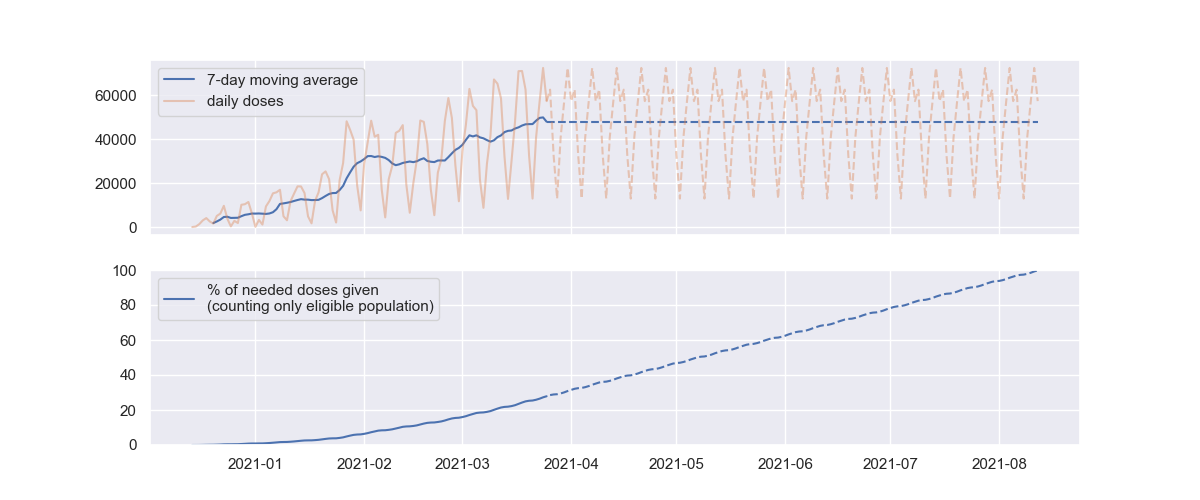
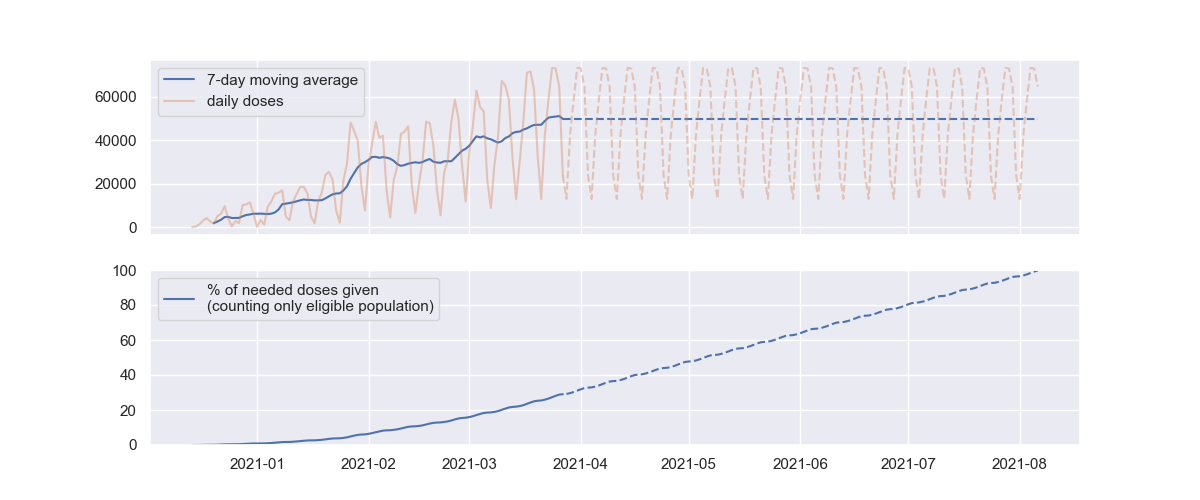
2021-03-28

diff --git a/trax.py b/trax.py
@@ -8,6 +8,7 @@ POPULATION = 5_822_434  # https://en.wikipedia.org/wiki/Wisconsin
 JNJ = {
     "2021-03-22": 43_057,  # This is when they started publishing manufacturer
     "2021-03-25": 51_190,
+    "2021-03-27": 53_723,
 }
 
 

diff --git a/README.md b/README.md
@@ -10,10 +10,10 @@ Raw data was obtained from https://www.dhs.wisconsin.gov/covid-19/vaccine-data.h
 
 ```
 $ python trax.py
-Data up through 2021-03-22, recent data is usually corrected to be higher
-45262 average doses per day over past 7 days (+1554 compared to 2 weeks ago)
-28.9 weeks (2021-10-10) for EVERY PERSON to get fully immunized
-21.9 weeks (2021-08-22) for all eligible people (over 16 years old) to get fully immunized
+Data up through 2021-03-27, recent data is usually corrected to be higher
+49717 average doses per day over past 7 days (+2703 compared to 2 weeks ago)
+25.4 weeks (2021-09-20) for EVERY PERSON to get fully immunized
+19.0 weeks (2021-08-06) for all eligible people (over 16 years old) to get fully immunized
 ```
 
 # Charts
